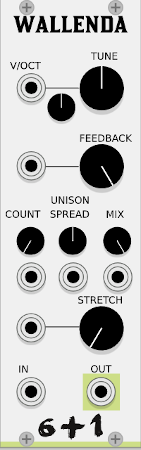
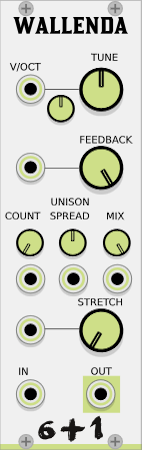
Update readme, new Images, Changelog, version in manifest

Changed region(s): [[0.0, 0.0, 1.0, 1.0]]

diff --git a/CHANGELOG.md b/CHANGELOG.md
@@ -14,8 +14,8 @@ Wallenda now has saturated outputs
 Plugins TE (Tyrant Expander), Lala, Eva, Zazel
 
 
-### V1.1.1 Unreleased
+### V1.1.1 UI & Bugfixes
 
 Updated knobs and ports to use custom svg. 
 Fixed bug in Zazel where it was going into learn mode, when loading
-
+Fixed bug in Massariti removing aliasing
